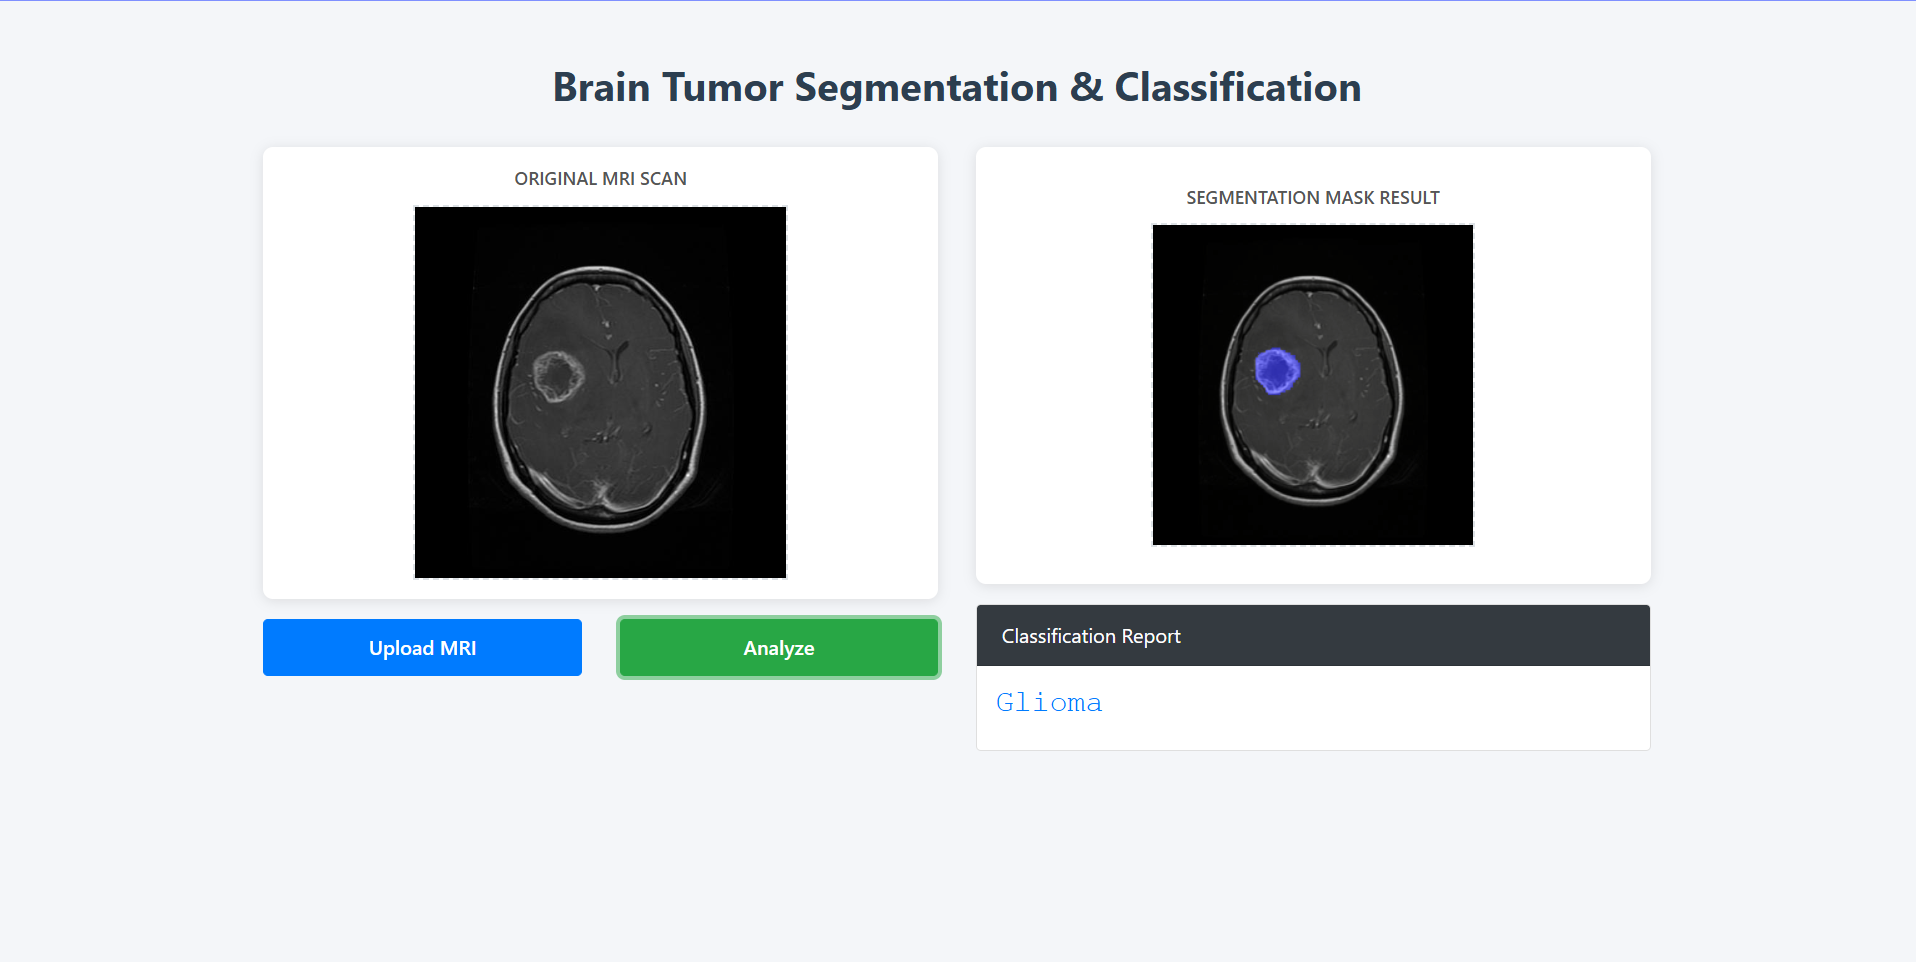
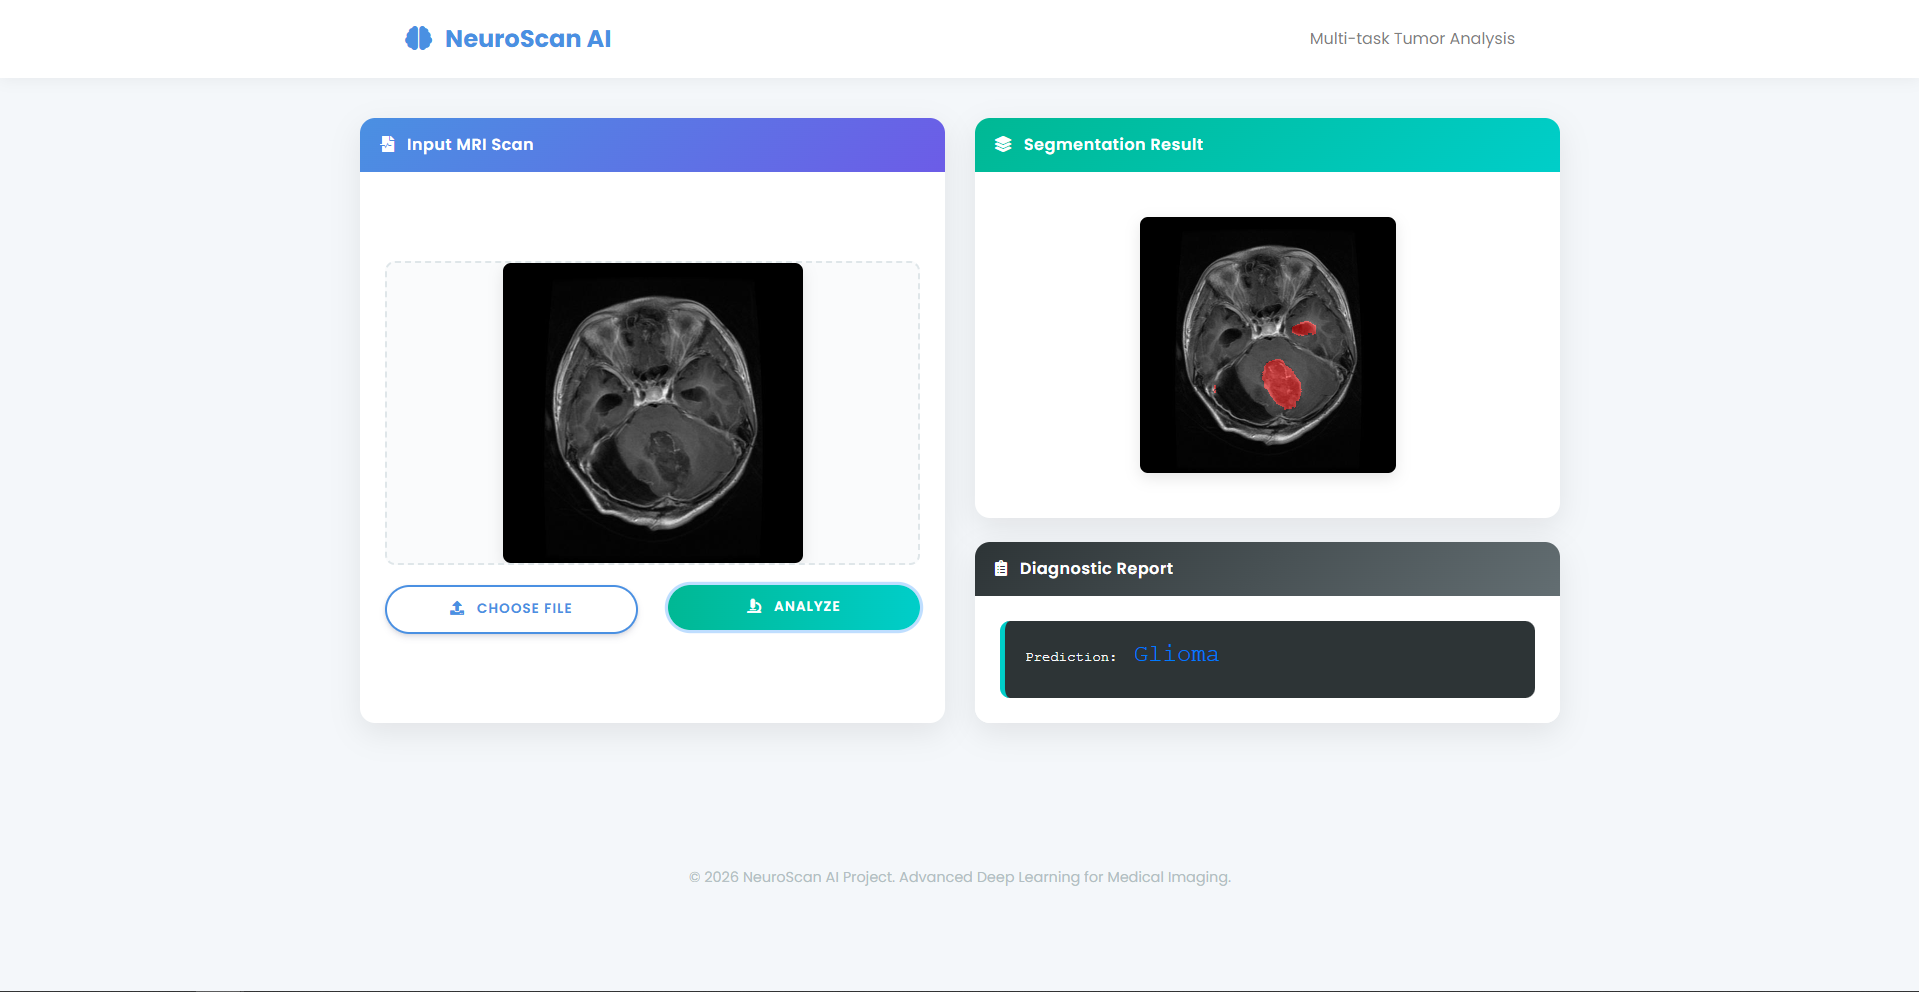
update

Changed region(s): [[0.1232, 0.0312, 0.8622, 0.7484], [0.0, 0.9979, 1.0, 1.0], [0.3695, 0.8732, 0.6467, 0.9044]]

diff --git a/README.md b/README.md
@@ -55,24 +55,27 @@ By forcing the model to learn both *what* the tumor is and *where* it is at the 
 
 01. **Clone the repository**
 
-   ```bash
+   ```ruby
    git clone [https://github.com/QuangTruong2612/Project_1.git](https://github.com/QuangTruong2612/Project_1.git)
    cd Project_1
+    ```
 
 02. **Create ca conda environment**
 
-    ```bash
+    ```ruby
     conda create -n project-env python=3.10 -y
     conda activate project-env
+    ```
 
 03. **Install th requirements**
 
-    ```bash
+    ```ruby
     pip install -r requirements.txt
+    ```
 
 04.**Export  mlflow tracking**
 
-    ```bash
+    ```ruby
     export MLFLOW_TRACKING_URI=[https://dagshub.com/YourUser/YourRepo.mlflow](https://dagshub.com/YourUser/YourRepo.mlflow)
     export MLFLOW_TRACKING_USERNAME=YourUser
     export MLFLOW_TRACKING_PASSWORD=YourToken
@@ -80,7 +83,7 @@ By forcing the model to learn both *what* the tumor is and *where* it is at the 
 
 05. **DVC cmd**
 
-    ```bash
+    ```ruby
     dvc init
     dvc repro
     dvc dag
@@ -88,9 +91,9 @@ By forcing the model to learn both *what* the tumor is and *where* it is at the 
 
 06. **Run Web App**
 
-    ```bash
+    ```ruby
    python app.pys
-    ```
+   ```
 
 ## 6. Hybrid MLOps Architecture (CI/CD)
 
@@ -115,17 +118,19 @@ Workflow Diagram:
   1. Launch Instance: Ubuntu 22.04, Instance Type t3.small.
   2. Security Group: Open ports 8080 (Custom TCP) and 22 (SSH).
   3. Install Docker & Git:
-        ```bash
-        sudo apt-get update -y
-        sudo apt-get install docker.io docker-compose git -y
-        sudo usermod -aG docker $USER
-        newgrp docker
-        ```
+
+    ```ruby
+    sudo apt-get update -y
+    sudo apt-get install docker.io docker-compose git -y
+    sudo usermod -aG docker $USER
+    newgrp docker
+    ```
+
   4. Clone Repo (First time only):
-        ```bash
-        cd /home/ubuntu/
-        git clone [https://github.com/QuangTruong2612/Project_1.git](https://github.com/QuangTruong2612/Project_1.git) project-1
-        ```
+    ```ruby
+    cd /home/ubuntu/
+    git clone [https://github.com/QuangTruong2612/Project_1.git](https://github.com/QuangTruong2612/Project_1.git) project-1
+    ```
 
 ### Part 2: Local Machine Setup (Training Worker)
 
@@ -136,7 +141,7 @@ Workflow Diagram:
 
 ### Part 3: GitHub Secrets Configuration
 
-        Go to Settings -> Secrets and variables -> Actions and add:
+    Go to Settings -> Secrets and variables -> Actions and add:
         Secret Name, Value
         AWS_HOST, Public IP of your EC2 instance
         AWS_USER, ubuntu
@@ -144,6 +149,7 @@ Workflow Diagram:
         MLFLOW_TRACKING_URI, Your DagsHub MLflow URI
         MLFLOW_TRACKING_USERNAME, Your DagsHub Username
         MLFLOW_TRACKING_REPO, Your DagsHub Repo
+
 
 ## Demo
 
